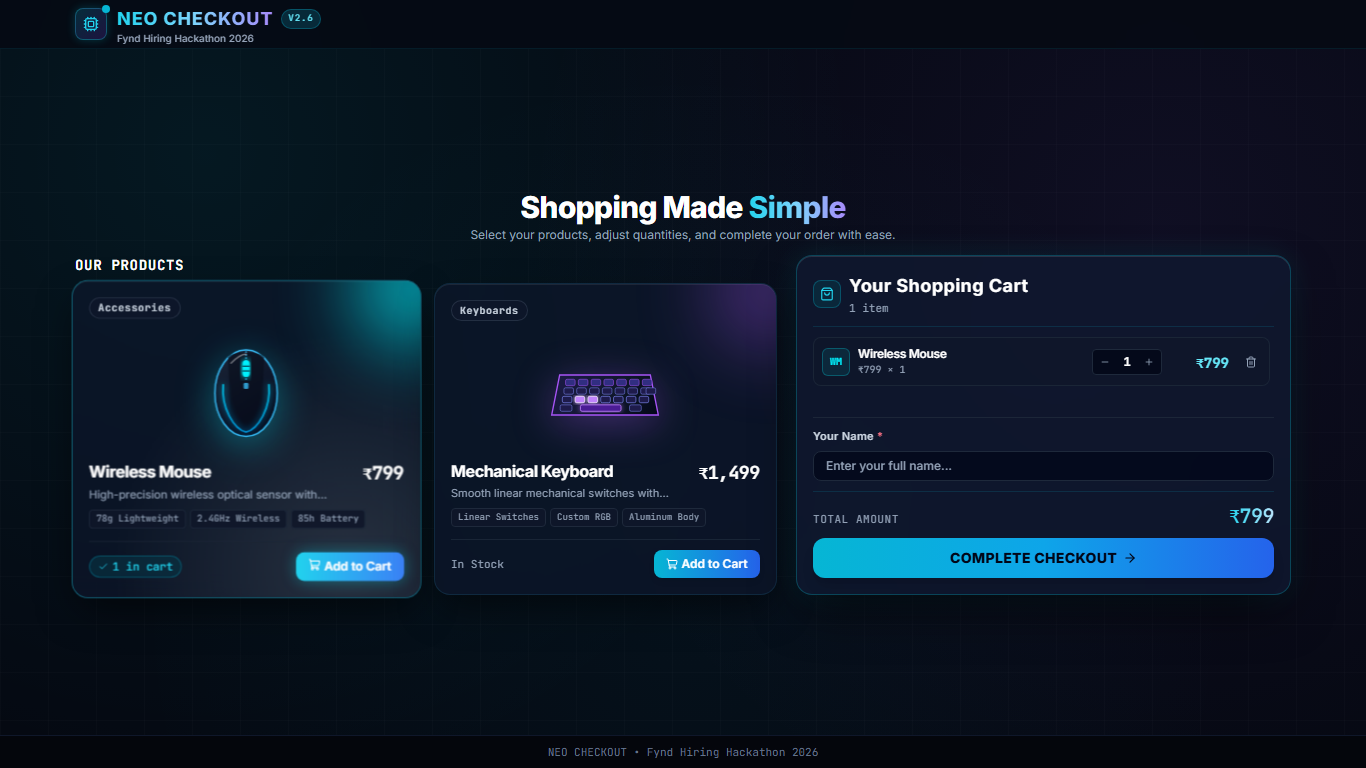
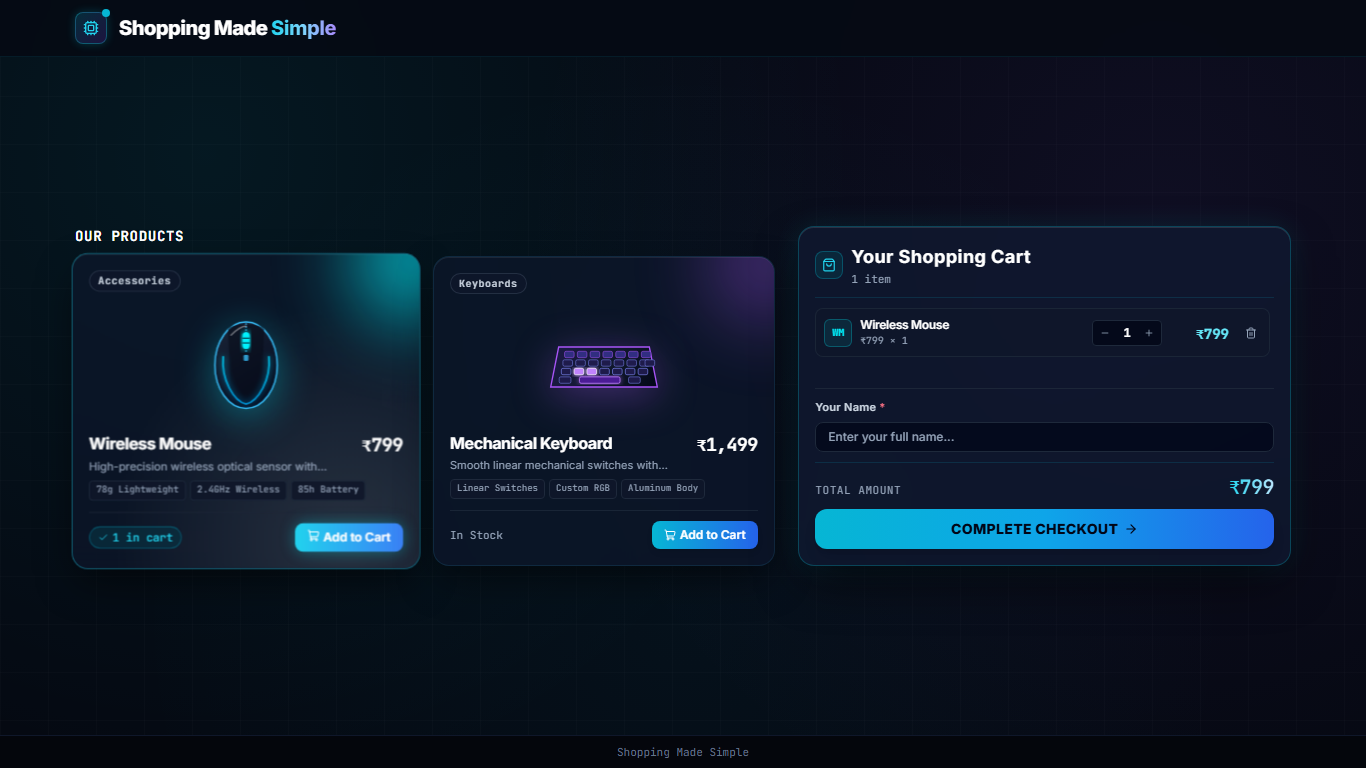
refactor(header): replace NEO CHECKOUT with Shopping Made Simple in header and remove duplicate hero

diff --git a/src/App.jsx b/src/App.jsx
@@ -117,25 +117,15 @@ export default function App() {
     <div className="min-h-screen lg:h-screen lg:max-h-screen flex flex-col justify-between neo-bg-ambient selection:bg-cyan-500/30 selection:text-cyan-200 overflow-x-hidden">
       <Header />
 
-      <main className="flex-1 flex flex-col justify-center max-w-7xl w-full mx-auto px-4 sm:px-6 lg:px-8 py-2 sm:py-3 lg:py-2.5">
+      <main className="flex-1 flex flex-col justify-center max-w-7xl w-full mx-auto px-4 sm:px-6 lg:px-8 py-3 sm:py-4 lg:py-3">
         {confirmedOrder ? (
           <OrderConfirmation order={confirmedOrder} onReset={handleResetOrder} />
         ) : (
-          <div className="space-y-2 sm:space-y-3 lg:space-y-3">
-            {/* Main Page Title: Shopping Made Simple */}
-            <div className="text-center max-w-xl mx-auto space-y-0.5">
-              <h1 className="text-xl sm:text-2xl lg:text-3xl font-extrabold tracking-tight text-white leading-tight">
-                Shopping Made <span className="text-transparent bg-clip-text bg-gradient-to-r from-cyan-400 via-sky-300 to-violet-400">Simple</span>
-              </h1>
-              <p className="text-slate-400 text-xs">
-                Select your products, adjust quantities, and complete your order with ease.
-              </p>
-            </div>
-
+          <div className="space-y-3 sm:space-y-4">
             {/* Main Grid: Products on Left/Center, Cart on Right */}
-            <div className="grid grid-cols-1 lg:grid-cols-12 gap-4 lg:gap-5 items-stretch">
+            <div className="grid grid-cols-1 lg:grid-cols-12 gap-4 lg:gap-6 items-stretch">
               {/* Products Area */}
-              <div className="lg:col-span-7 flex flex-col justify-between space-y-1.5">
+              <div className="lg:col-span-7 flex flex-col justify-between space-y-2">
                 <div className="flex items-center justify-between pb-0.5">
                   <h2 className="text-xs sm:text-sm font-bold font-mono tracking-wider uppercase text-white">
                     Our Products
@@ -177,7 +167,7 @@ export default function App() {
 
       {/* Footer */}
       <footer className="border-t border-slate-900 bg-[#04060C] py-2 text-center text-[11px] text-slate-500 font-mono flex-shrink-0">
-        <p>NEO CHECKOUT • Fynd Hiring Hackathon 2026</p>
+        <p>Shopping Made Simple</p>
       </footer>
     </div>
   );

diff --git a/src/components/Header.jsx b/src/components/Header.jsx
@@ -4,9 +4,9 @@ import { Cpu } from 'lucide-react';
 export default function Header() {
   return (
     <header className="relative w-full border-b border-cyan-500/10 bg-[#060A14]/90 backdrop-blur-xl sticky top-0 z-40 flex-shrink-0">
-      <div className="max-w-7xl mx-auto px-4 sm:px-6 lg:px-8 h-12 sm:h-13 flex items-center justify-between">
-        {/* Brand Identity */}
-        <div className="flex items-center space-x-2.5">
+      <div className="max-w-7xl mx-auto px-4 sm:px-6 lg:px-8 h-12 sm:h-14 flex items-center justify-between">
+        {/* Title on the side */}
+        <div className="flex items-center space-x-3">
           <div className="relative flex items-center justify-center w-8 h-8 rounded-lg bg-gradient-to-br from-cyan-500/20 to-violet-600/20 border border-cyan-400/30 shadow-[0_0_10px_rgba(0,242,254,0.2)]">
             <Cpu className="w-4 h-4 text-cyan-400" />
             <span className="absolute -top-1 -right-1 flex h-2 w-2">
@@ -16,17 +16,9 @@ export default function Header() {
           </div>
 
           <div>
-            <div className="flex items-center space-x-2">
-              <span className="text-base sm:text-lg font-black tracking-wider text-transparent bg-clip-text bg-gradient-to-r from-cyan-400 via-sky-300 to-violet-400 uppercase">
-                NEO CHECKOUT
-              </span>
-              <span className="text-[9px] font-mono tracking-widest px-1.5 py-0.5 rounded-full bg-cyan-950/80 text-cyan-300 border border-cyan-500/30 uppercase">
-                v2.6
-              </span>
-            </div>
-            <p className="text-[10px] text-slate-400 font-medium leading-none">
-              Fynd Hiring Hackathon 2026
-            </p>
+            <h1 className="text-lg sm:text-xl font-extrabold tracking-tight text-white leading-tight">
+              Shopping Made <span className="text-transparent bg-clip-text bg-gradient-to-r from-cyan-400 via-sky-300 to-violet-400">Simple</span>
+            </h1>
           </div>
         </div>
       </div>
